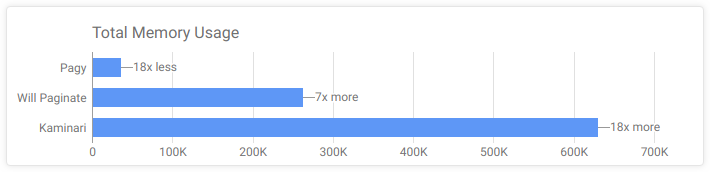
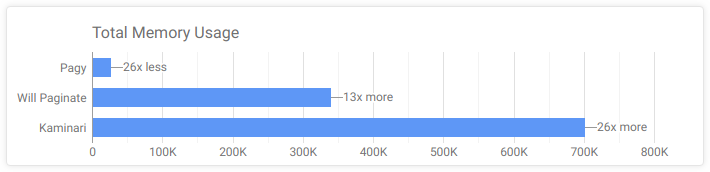
updated README and docs

diff --git a/docs/assets/css/style.scss b/docs/assets/css/style.scss
@@ -57,7 +57,7 @@ h1 span {
   margin: 1.5em 0;
   white-space: nowrap;
   p {
-    margin: .2em 0;
+    margin: .1em 0;
   }
   p.indent1 {
     margin-left: 2rem;

diff --git a/lib/pagy/frontend.rb b/lib/pagy/frontend.rb
@@ -53,7 +53,7 @@ class Pagy
     MARKER = "-pagy-#{'pagy'.hash}-"
 
     # Returns a performance optimized proc to generate the HTML links
-    # Benchmarked on a 20 link nav: it is ~27x faster and uses ~13x less memory than rails' link_to
+    # Benchmarked on a 20 link nav: it is ~22x faster and uses ~18x less memory than rails' link_to
     def pagy_link_proc(pagy, link_extra='')
       p_prev, p_next = pagy.prev, pagy.next
       a, b = %(<a href="#{pagy_url_for(MARKER, pagy)}" #{pagy.vars[:link_extra]} #{link_extra}).split(MARKER, 2)
@@ -62,7 +62,7 @@ class Pagy
                                                     else                           '' end } #{extra}>#{text}</a>" }
     end
 
-    # Similar to I18n.t: just ~12x faster using ~6x less memory
+    # Similar to I18n.t: just ~18x faster using ~10x less memory
     def pagy_t(path, vars={}) Pagy::I18n.t(@pagy_locale, path, vars) end
 
   end

diff --git a/lib/config/pagy.rb b/lib/config/pagy.rb
@@ -114,7 +114,7 @@
 
 # I18n
 
-# Pagy internal I18n: ~12x faster using ~6x less memory than the i18n gem
+# Pagy internal I18n: ~18x faster using ~10x less memory than the i18n gem
 # See https://ddnexus.github.io/pagy/api/frontend#i18n
 # Notice: No need to use any of the following lines if you use the i18n extra below
 #
@@ -141,7 +141,7 @@
 #                  pluralize: lambda{|count| ... } )
 
 
-# I18n extra: uses the standard i18n gem which is ~12x slower using ~6x more memory
+# I18n extra: uses the standard i18n gem which is ~18x slower using ~10x more memory
 # than the default pagy internal i18n (see above)
 # See https://ddnexus.github.io/pagy/extras/i18n
 # require 'pagy/extras/i18n'

diff --git a/README.md b/README.md
@@ -1,28 +1,42 @@
 # Pagy
 
-[![Gem Version](https://badge.fury.io/rb/pagy.svg)](https://badge.fury.io/rb/pagy) [![Build Status](https://travis-ci.org/ddnexus/pagy.svg?branch=master)](https://travis-ci.org/ddnexus/pagy/branches)
+[![Gem Version](https://img.shields.io/gem/v/pagy.svg?label=pagy&colorA=99004d&colorB=cc0066)](https://rubygems.org/gems/pagy)
+![ruby](https://img.shields.io/badge/ruby-v1.9+-ruby.svg?colorA=99004d&colorB=cc0066)
+![jruby](https://img.shields.io/badge/jruby-v1.7+-jruby.svg?colorA=99004d&colorB=cc0066)
+[![Build Status](https://img.shields.io/travis/ddnexus/pagy/master.svg?colorA=1f7a1f&colorB=2aa22a)](https://travis-ci.org/ddnexus/pagy/branches)
+[![MIT license](https://img.shields.io/badge/license-MIT-mit.svg?colorA=1f7a1f&colorB=2aa22a)](http://opensource.org/licenses/MIT)
+![Commits](https://img.shields.io/github/commit-activity/y/ddnexus/pagy.svg?label=commits&colorA=004d99&colorB=0073e6)
+![Downloads](https://img.shields.io/gem/dt/pagy.svg?colorA=004d99&colorB=0073e6)
+[![Chat](http://img.shields.io/badge/gitter-ddnexus/pagy-purple.svg?colorA=800080&colorB=b300b3)](https://gitter.im/ruby-pagy/Lobby)
 
 Pagy is the ultimate pagination gem that outperforms the others in each and every benchmark and comparison.
 
-## Benchmarks
+## Improvements in v2.0+
+
+- Lower ruby requirements (ruby v1.9+ || jruby v1.7+) make Pagy very convenient also on older systems
+- The i18n internal implementation now includes full dynamic support for multi-language apps, it's ~18x faster and uses ~10x less memory than the i18n gem
+- The `searchkick` and `elasticsearch_rails` extras have been refactored with more and better options
+- Pagy v2.0+ is even faster and lighter than v1.0+ (see charts below)
+
+## Comparison with other gems
 
 The best way to quickly get an idea about Pagy is comparing it to the other well known gems.
 
-The values shown in the charts below have been recorded while each gem was producing the exact same output: same environment conditions, same task, just different gems _(see the [Detailed Gems Comparison](http://ddnexus.github.io/pagination-comparison/gems.html))_
+The values shown in the charts below have been recorded while each gem was producing the exact same output in the exact same environment. _(see the [Detailed Gems Comparison](http://ddnexus.github.io/pagination-comparison/gems.html))_
 
-### Faster
+### ~ 33x Faster!
 
 [![IPS Chart](docs/assets/images/ips-chart.png)](https://ddnexus.github.io/pagination-comparison/gems.html#ips-benchmark)
 
-### Less Memory
+### ~ 26x Lighter!
 
 [![Memory Chart](docs/assets/images/memory-chart.png)](https://ddnexus.github.io/pagination-comparison/gems.html#memory-profile)
 
-### Simpler
+### ~ 25x Simpler!
 
 [![Objects Chart](docs/assets/images/objects-chart.png)](https://ddnexus.github.io/pagination-comparison/gems.html#memory-profile)
 
-### More Efficient
+### ~ 850x More Efficient!
 
 [![Efficiency Table](docs/assets/images/efficiency-table.png)](https://ddnexus.github.io/pagination-comparison/gems.html#efficiency-ratio)
 
@@ -30,7 +44,7 @@ _The [IPS/Kb ratio](http://ddnexus.github.io/pagination-comparison/gems.html#eff
 
 #### Disclaimer
 
-Please, notice that benchmarking and profiling the pagination gems in a working app environment is quite a tricky task.
+Please, notice that benchmarking and profiling the pagination gems in a working app environment may be a quite a tricky task.
 
 If you compare Pagy in your own app and don't notice much of a difference, your benchmarks are most likely not isolating the pagination code from the rest of your app.
 
@@ -40,26 +54,27 @@ Please check the [Benchmarks and Memory Profiles Source](http://github.com/ddnex
 
 ### Straightforward Code
 
-- Pagy has a very slim core code of just ~100 line of simple ruby, organized in 3 flat modules very easy to understand and use _(see [more...](https://ddnexus.github.io/pagy/api))_
+- Pagy has a very slim core code of just ~100 lines of simple ruby, organized in 3 flat modules, very easy to understand and use _(see [more...](https://ddnexus.github.io/pagy/api))_
 - It has a quite fat set of optional extras that you can explicitly require for very efficient and modular customization _(see [extras](https://ddnexus.github.io/pagy/extras))_
 - It has no dependencies: it produces its own HTML, URLs, i18n with its own specialized and fast code _(see [why...](https://ddnexus.github.io/pagy/index#specialized-code-instead-of-generic-helpers))_
-- 100% of its methods are public API, accessible and overridable **right where you use them** (no need of monkey-patching)
+- 100% of its methods are public API, accessible and overridable **right where you use them** (no pesky monkey-patching neededneed for )
 - 100% test coverage for core code and extras
 
 ### Totally Agnostic
 
 - The `Pagy` class doesn't need to know anything about your models, ORM or storage, so it doesn't add any code to them _(see [why...](https://ddnexus.github.io/pagy/index#stay-away-from-the-models))_
-- It works with all kinds of collections, even pre-paginated, records, Arrays, JSON data... and just whatever you can count _(see [how...](https://ddnexus.github.io/pagy/how-to#paginate-any-collection))_
+- It works with all kinds of collections, even pre-paginated, records, Arrays, JSON data... and just any list, even if you cannot count it _(see [how...](https://ddnexus.github.io/pagy/how-to#paginate-any-collection))_
 - Pagy works with the most popular Rack frameworks (Rails, Sinatra, Padrino, ecc.) out of the box _(see [more...](https://ddnexus.github.io/pagy/how-to#environment-assumptions))_
 - It works also with any possible non-Rack environment by just overriding one or two two-lines methods _(see [more...](https://ddnexus.github.io/pagy/how-to#environment-assumptions))_
 
 ### Unlike the other gems
 
 - Pagy is very modular and does not load nor execute unnecessary code in your app _(see [why...](https://ddnexus.github.io/pagy/how-to#global-configuration))_
-- It works with collections/scopes that already used `limit` and `offset` _(see [how...](https://ddnexus.github.io/pagy/how-to#paginate-a-pre-offsetted-and-pre-limited-collection))_
+- It works even with collections/scopes that already used `limit` and `offset` _(see [how...](https://ddnexus.github.io/pagy/how-to#paginate-a-pre-offsetted-and-pre-limited-collection))_
 - It works with helpers or templates _(see [more...](https://ddnexus.github.io/pagy/how-to#using-templates))_
 - It raises real `Pagy::OverflowError` exceptions that you can rescue from _(see [how...](https://ddnexus.github.io/pagy/how-to#handling-pagyoutofrangeerror-exception))_ or use the [overflow extra](http://ddnexus.github.io/pagy/extras/overflow) for a few ready to use common behaviors
 - It does not impose any difficult-to-override logic or output _(see [why...](https://ddnexus.github.io/pagy/index#really-easy-to-customize))_
+- It also works on legacy systems starting from ruby v1.9+ and jruby v1.7+
 
 ### Easy to use
 
@@ -93,8 +108,8 @@ Use the official extras, or write your own in just a few lines. Extras add speci
 
 - [array](http://ddnexus.github.io/pagy/extras/array): Paginate arrays efficiently, avoiding expensive array-wrapping and without overriding
 - [countless](http://ddnexus.github.io/pagy/extras/countless): Paginate without the need of any count, saving one query per rendering
-- [elasticsearch_rails](http://ddnexus.github.io/pagy/extras/elasticsearch_rails): Paginate `ElasticsearchRails::Results` objects efficiently, avoiding expensive object-wrapping and without overriding
-- [searchkick](http://ddnexus.github.io/pagy/extras/searchkick): Paginate `Searchkick::Results` objects efficiently, avoiding expensive object-wrapping and without overriding
+- [elasticsearch_rails](http://ddnexus.github.io/pagy/extras/elasticsearch_rails): Paginate `ElasticsearchRails` response objects
+- [searchkick](http://ddnexus.github.io/pagy/extras/searchkick): Paginate `Searchkick::Results` objects
 
 ### Frontend Extras
 
@@ -127,7 +142,7 @@ Besides the classic pagination `nav`, Pagy offers a few ready to use alternative
 
 [![Objects Chart](docs/assets/images/gorails-thumbnail-w360.png)](https://gorails.com/episodes/pagination-with-pagy-gem?autoplay=1)
 
-__* Notice__: the `pagy_nav_bootstrap` helper used in the screencast has been renamed to `pagy_bootstrap_nav` in version 2.0
+**Notice**: the `pagy_nav_bootstrap` helper used in the screencast has been renamed to `pagy_bootstrap_nav` in version 2.0
 
 ### Posts and Tutorials
 
@@ -164,13 +179,25 @@ Pagy is a fresh project and your help would be great. If you like it, you have a
 - Submit your translation if your language is missing from the [dictionary files](https://github.com/ddnexus/pagy/blob/master/lib/locales)
 - Write a Tutorial or a "How To" topic
 
-## Versioning, Branches and Pull Requests
+## Repository Info
+
+### Versioning
 
 Pagy follows the [Semantic Versioning 2.0.0](https://semver.org/). Please, check the [Changelog](https://github.com/ddnexus/pagy/blob/master/CHANGELOG.md) for breaking changes introduced by mayor versions.
 
-The `master` branch is the latest rubygem-published release (plus changes that don't affect the actual gem behavior, e.g. doc, tests). You should use it as the base branch for pull requests, because it will not be force-rebased.
+### Branching
 
-The `dev` branch is kept rebased on top of `master`, so expect it to be force-rebased (i.e. do not use it as the base for your commits). Use `dev` as a preview for trying the new code that will be merged in the next release, but please, don't use it as the base branch for pull requests.
+Pagy follows the [GitFlow](https://datasift.github.io/gitflow/IntroducingGitFlow.html) branching model with `master` and `dev`.
+
+The `master` branch is the latest rubygem-published release (plus the changes that don't affect the gem behavior, e.g. doc, tests).
+
+The `dev` branch is the development branch with the new code that will be merged in the next release.
+
+Expect any other branch to be experimental, force-rebased and/or deleted even without merging.
+
+### Pull Requests
+
+Please, use `dev` as the base branch for your Pull Requests.
 
 ## Credits
 

diff --git a/docs/api/frontend.md b/docs/api/frontend.md
@@ -92,7 +92,7 @@ For standard usage you may just need to read [Customizing the link attributes](.
 
 You need this section only if you are going to override a `pagy_nav*` helper or a template AND you need to customize the HTML attributes of the link tags.
 
-**Important**: This method is not intended to be overridden, however you could just replace it in your overridden `pagy_nav*` helpers or templates with some generic helper like the rails `link_to`. If you intend to do so, be sure to have a very good reason, since using `pagy_link_proc` is a lot faster than the rails `link_to` (benchmarked at ~27x faster using ~13x less memory on a 20 links nav).
+**Important**: This method is not intended to be overridden, however you could just replace it in your overridden `pagy_nav*` helpers or templates with some generic helper like the rails `link_to`. If you intend to do so, be sure to have a very good reason, since using `pagy_link_proc` is a lot faster than the rails `link_to` (benchmarked at ~22x faster using ~18x less memory on a 20 links nav).
 
 **Warning**: This is a peculiar way to create page links and it works only for that purpose. It is not intended to be used for any other generic links to any URLs different than a page link.
 
@@ -166,7 +166,7 @@ Pagy is i18n ready. That means that all its strings are stored in the dictionary
 
 ### Pagy I18n implementation
 
-The pagy internal i18n implementation is ~12x faster and uses ~6x less memory than the standard `i18n` gem.
+The pagy internal i18n implementation is ~18x faster and uses ~10x less memory than the standard `i18n` gem.
 
 Since Pagy version 2.0, you can use it for both single-language and multi-language apps, with or without the `i18n` gem.
 

diff --git a/docs/extras/i18n.md b/docs/extras/i18n.md
@@ -7,7 +7,7 @@ title: I18n
 
 The `i18n` extra overrides the `pagy_t` method so it uses `I18n.t` implemented by the `i18n` gem.
 
-The `I18n.t` is ~12x slower and uses ~6x more memory than `pagy_t` so use it wisely.
+The `I18n.t` is ~18x slower and uses ~10x more memory than `pagy_t` so use it wisely.
 
 See also [I18n](../api/frontend.md#i18n).
 
